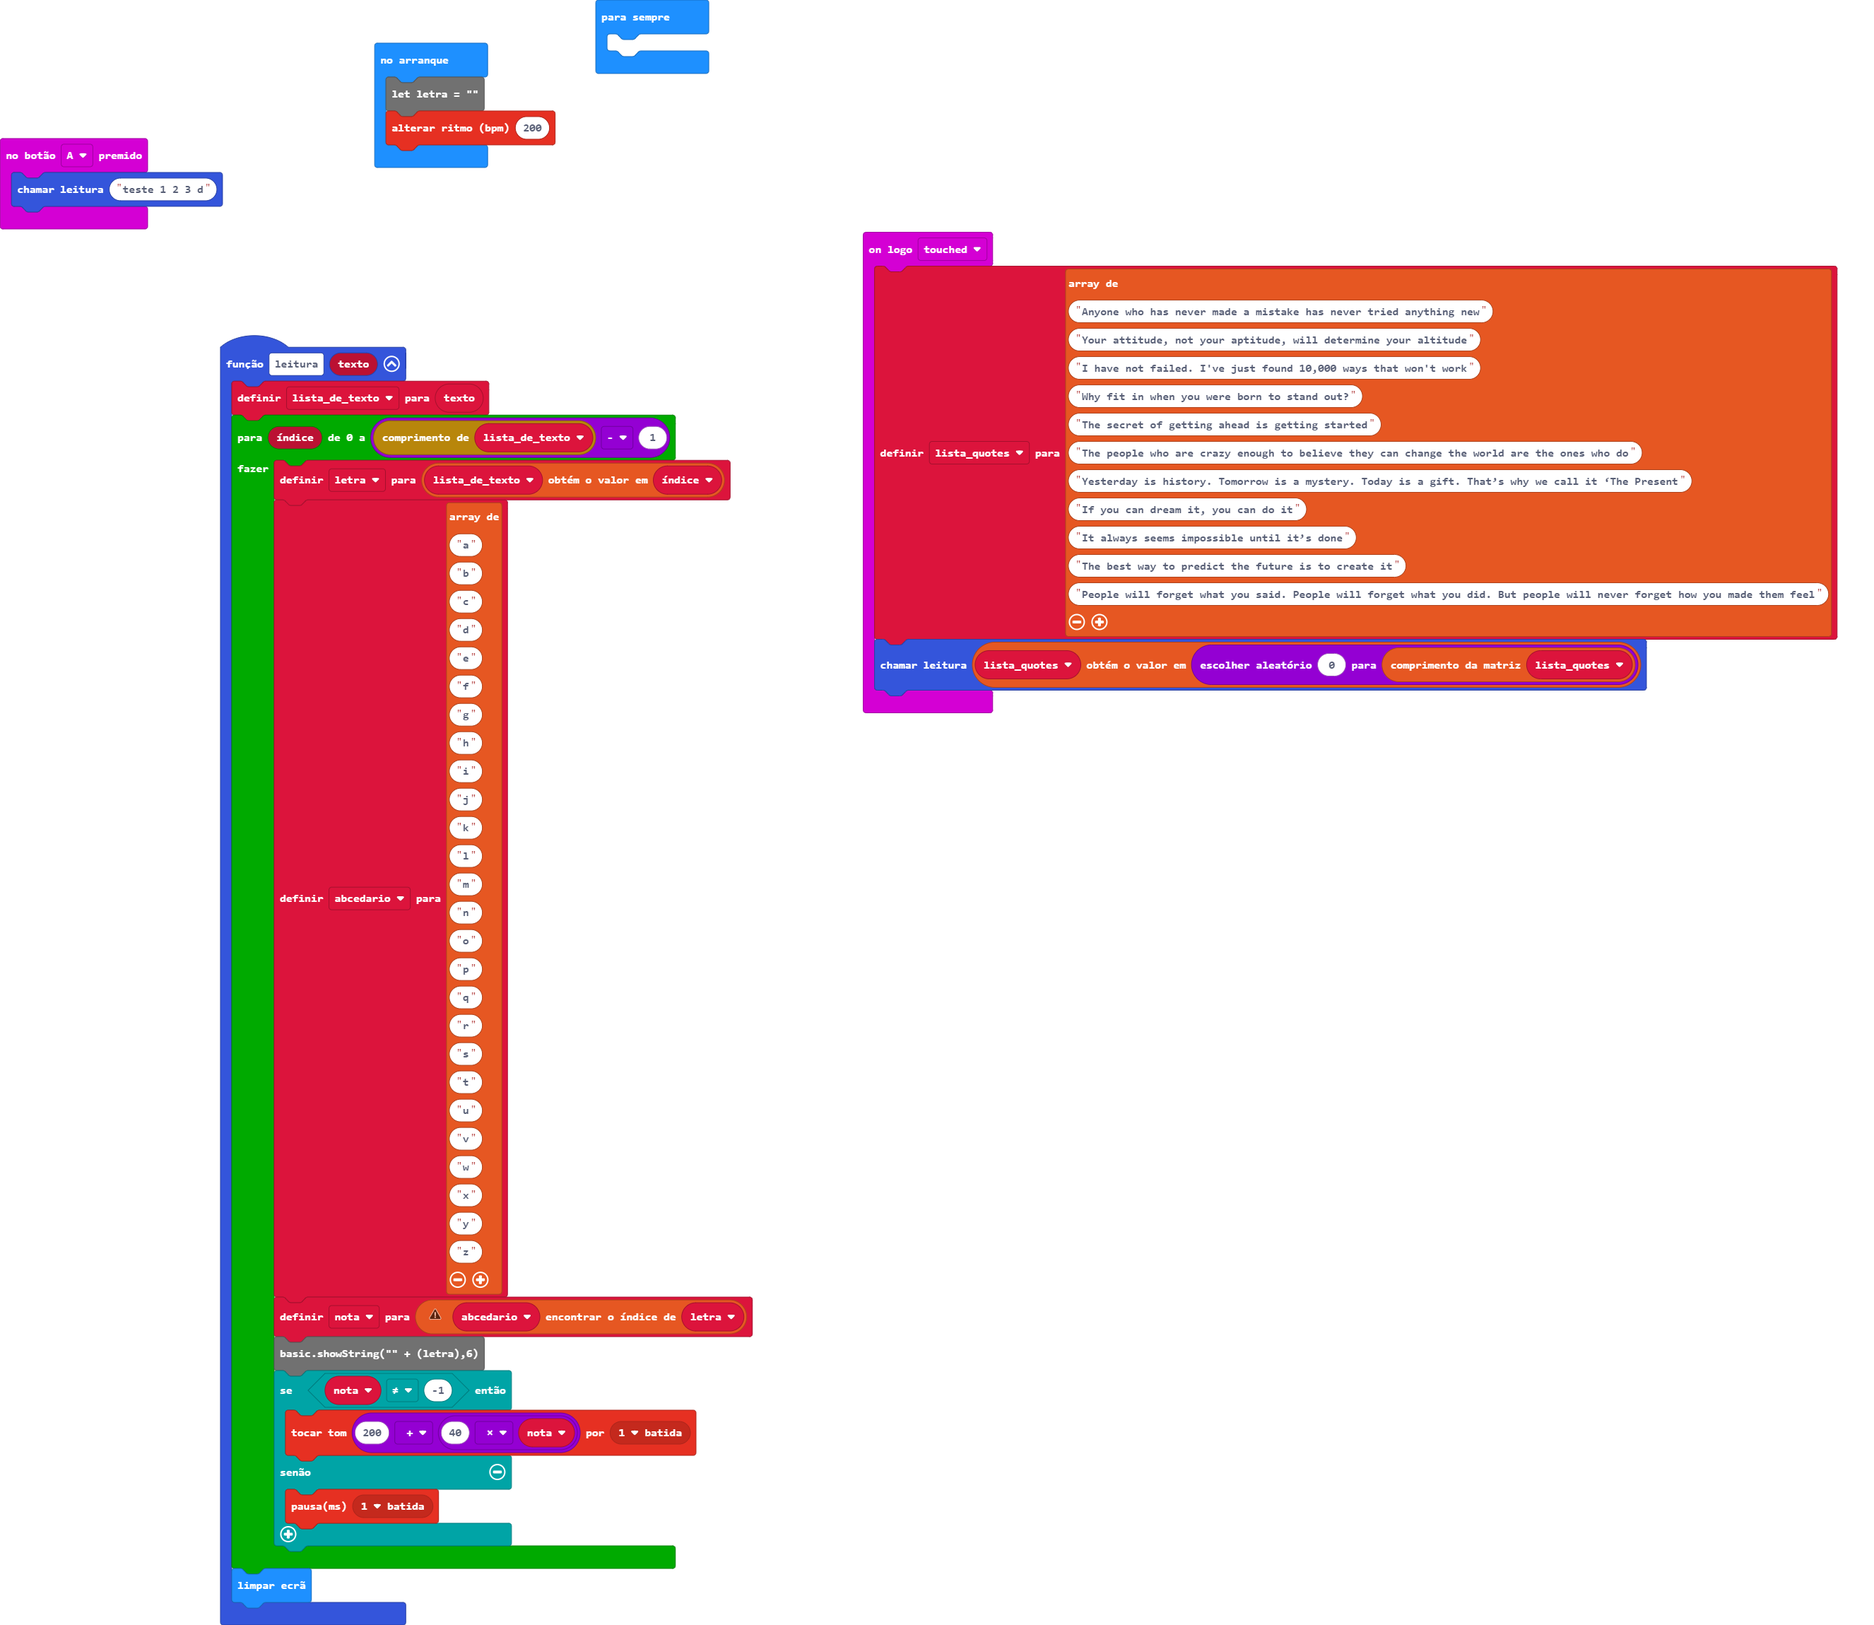
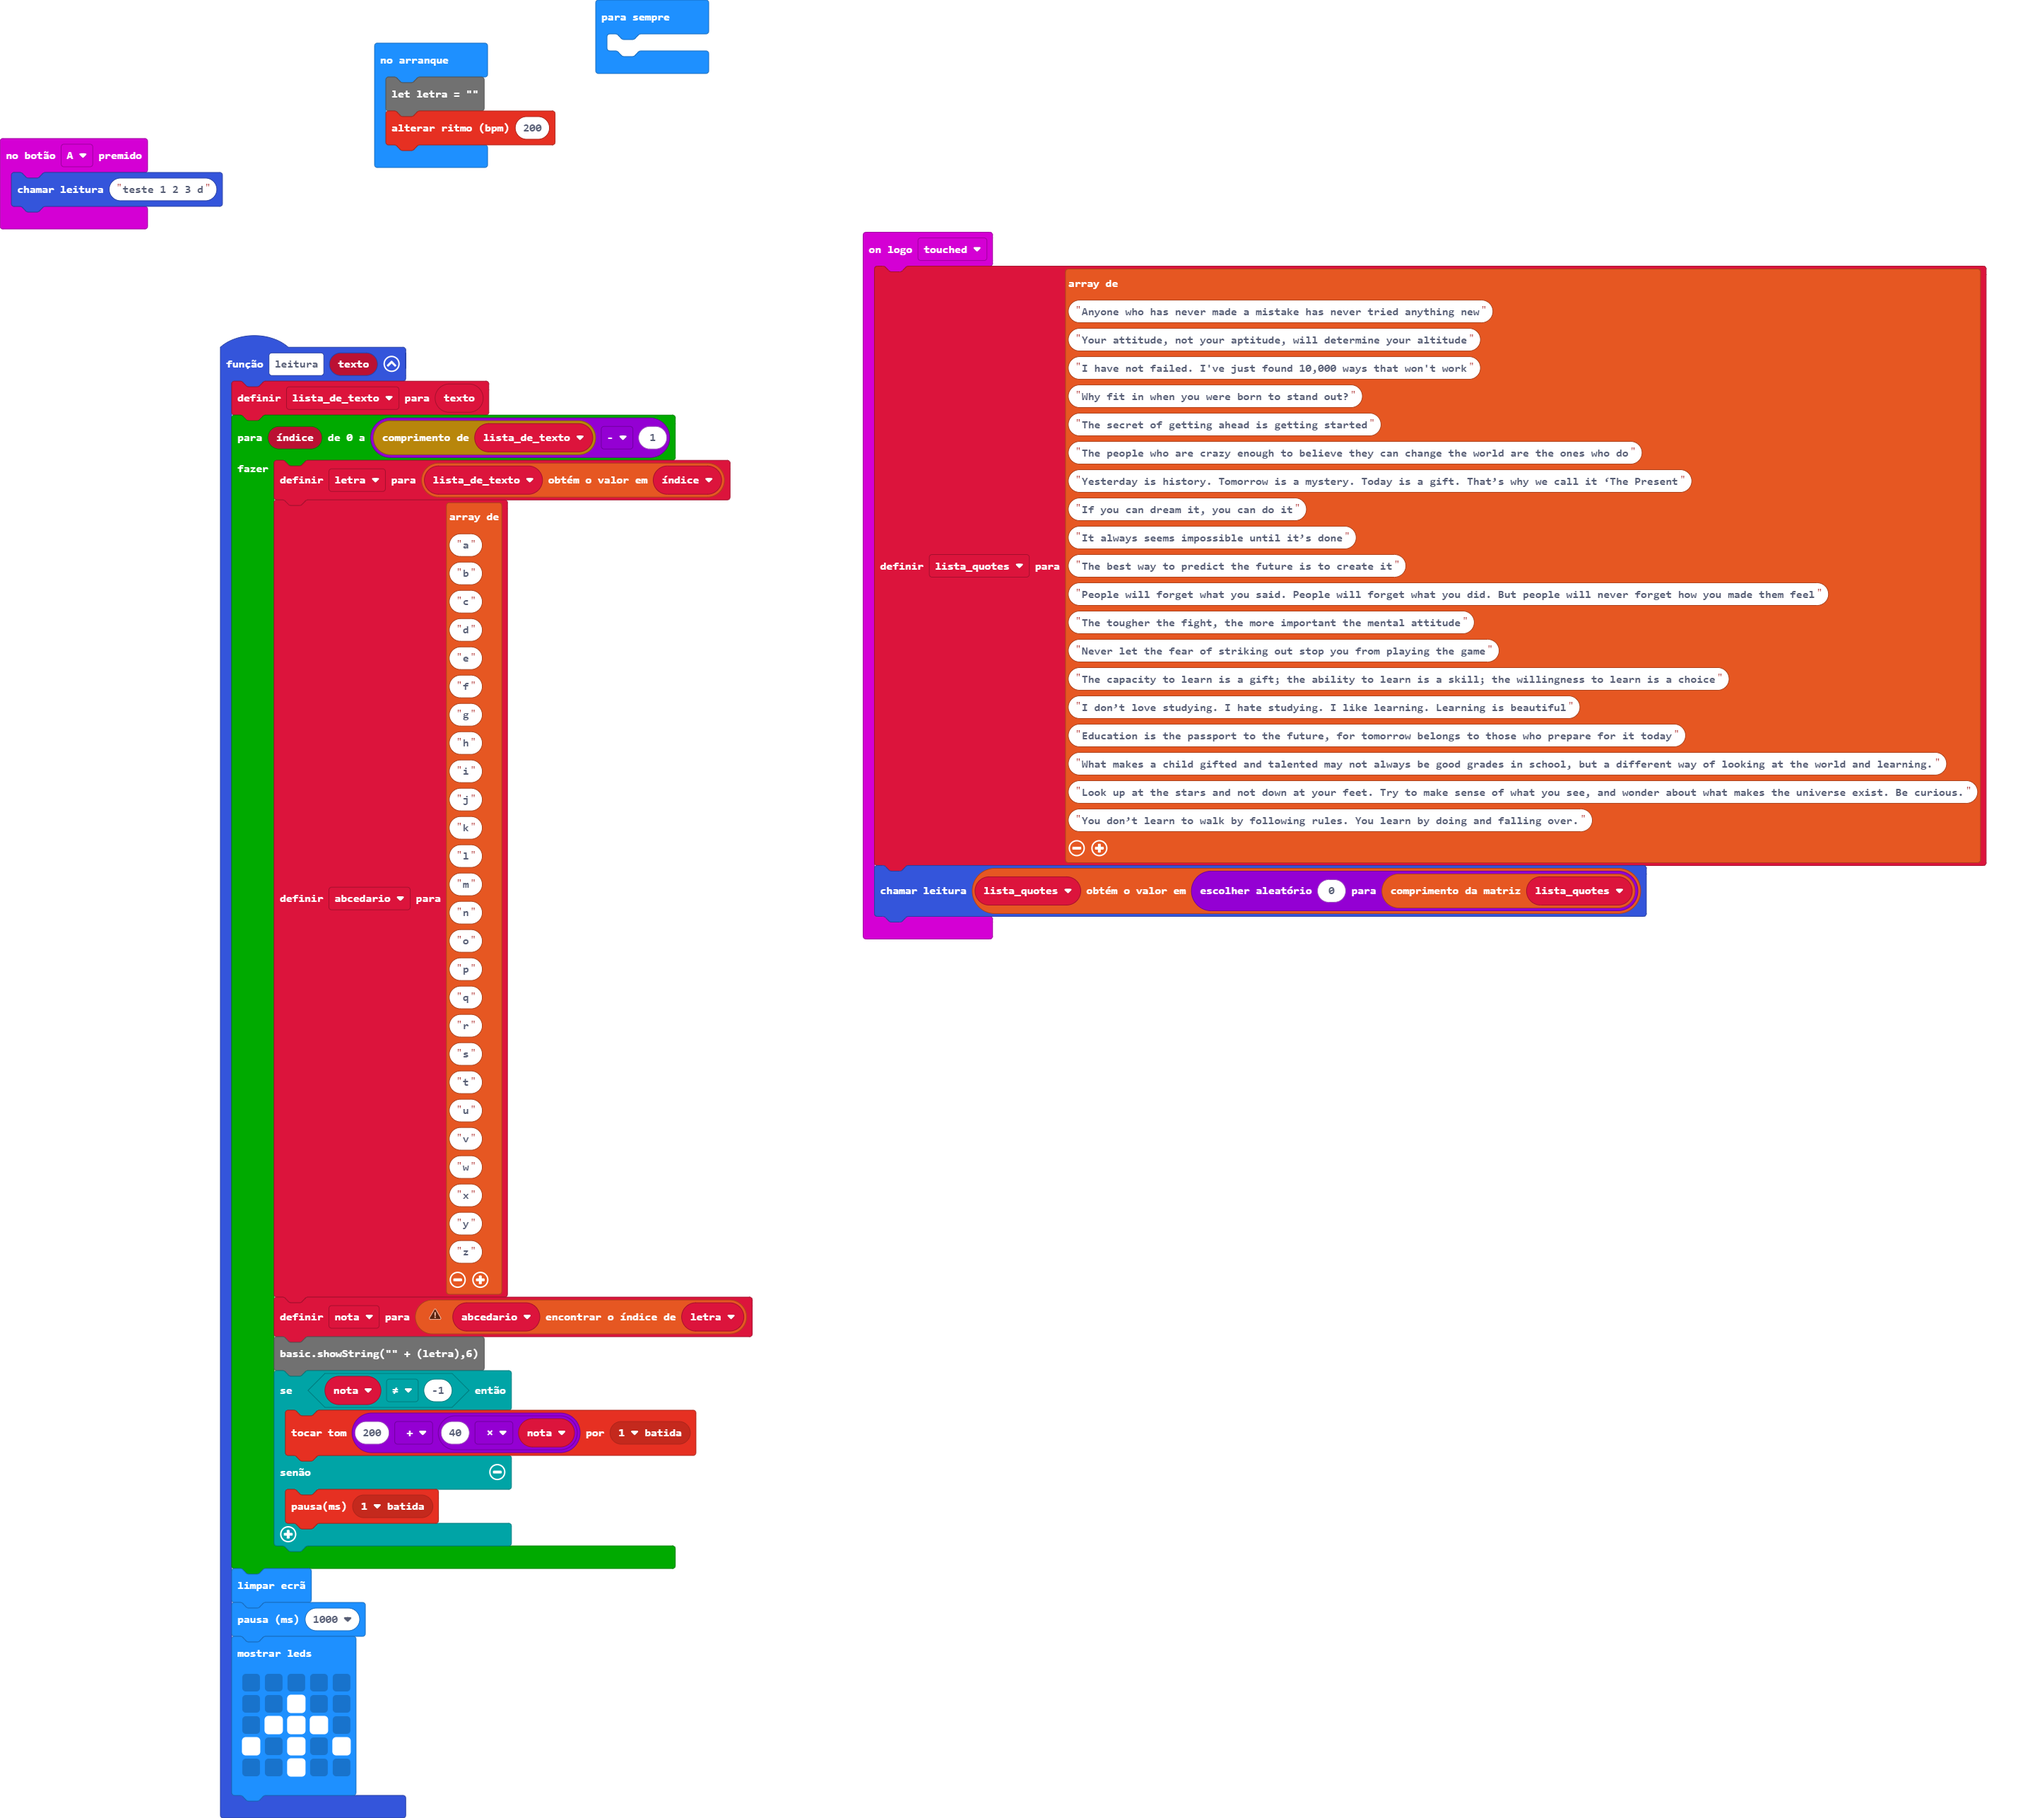
mais quotes

Changed region(s): [[0.0928, 0.1235, 0.9894, 1.0], [0.1855, 0.0, 0.402, 0.1235], [0.0, 0.0618, 0.1237, 0.1544]]

diff --git a/main.ts b/main.ts
@@ -16,7 +16,15 @@ input.onLogoEvent(TouchButtonEvent.Touched, function () {
     "If you can dream it, you can do it",
     "It always seems impossible until it’s done",
     "The best way to predict the future is to create it",
-    "People will forget what you said. People will forget what you did. But people will never forget how you made them feel"
+    "People will forget what you said. People will forget what you did. But people will never forget how you made them feel",
+    "The tougher the fight, the more important the mental attitude",
+    "Never let the fear of striking out stop you from playing the game",
+    "The capacity to learn is a gift; the ability to learn is a skill; the willingness to learn is a choice",
+    "I don’t love studying. I hate studying. I like learning. Learning is beautiful",
+    "Education is the passport to the future, for tomorrow belongs to those who prepare for it today",
+    "What makes a child gifted and talented may not always be good grades in school, but a different way of looking at the world and learning.",
+    "Look up at the stars and not down at your feet. Try to make sense of what you see, and wonder about what makes the universe exist. Be curious.",
+    "You don’t learn to walk by following rules. You learn by doing and falling over."
     ]
     leitura(lista_quotes[randint(0, lista_quotes.length)])
 })
@@ -61,6 +69,14 @@ if (nota != -1) {
         }
     }
     basic.clearScreen()
+    basic.pause(1000)
+    basic.showLeds(`
+        . . . . .
+        . . # . .
+        . # # # .
+        # . # . #
+        . . # . .
+        `)
 }
 let nota = 0
 let abcedario: string[] = []
